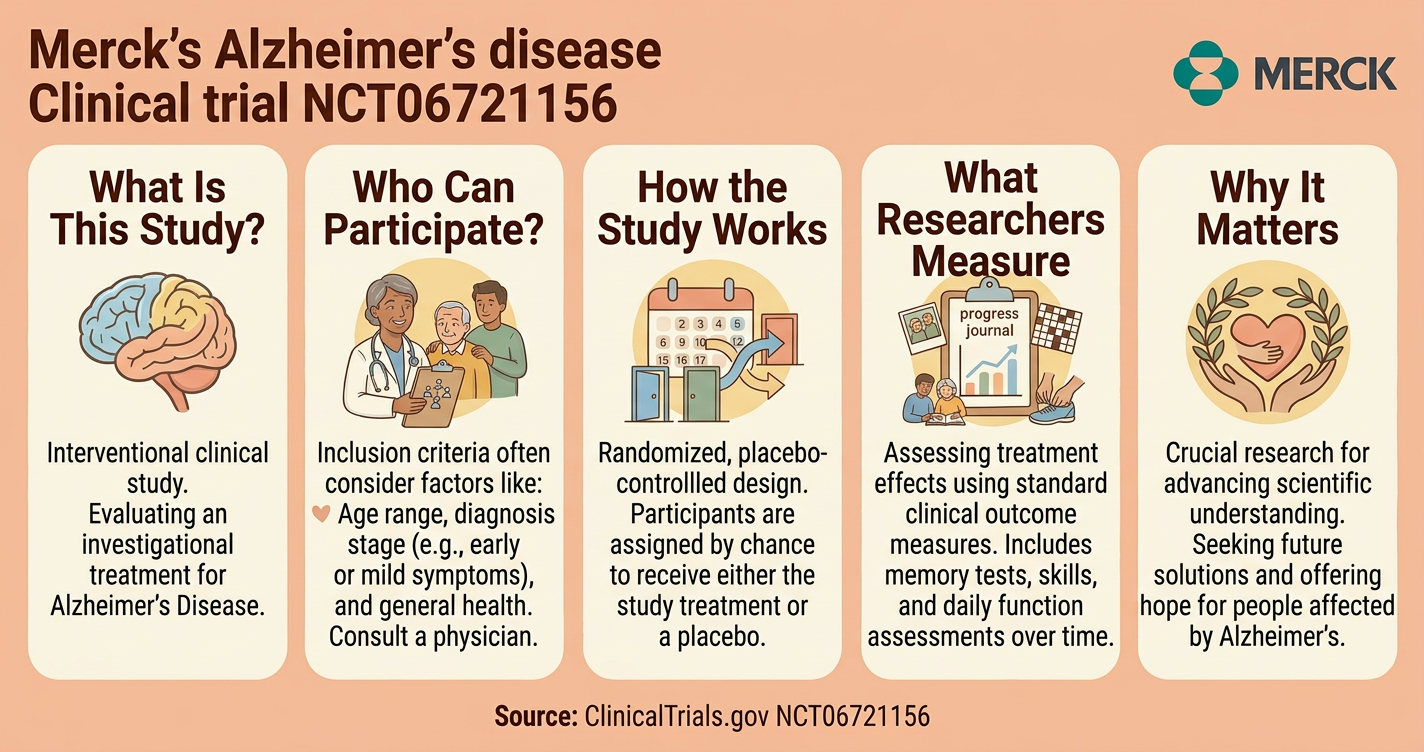
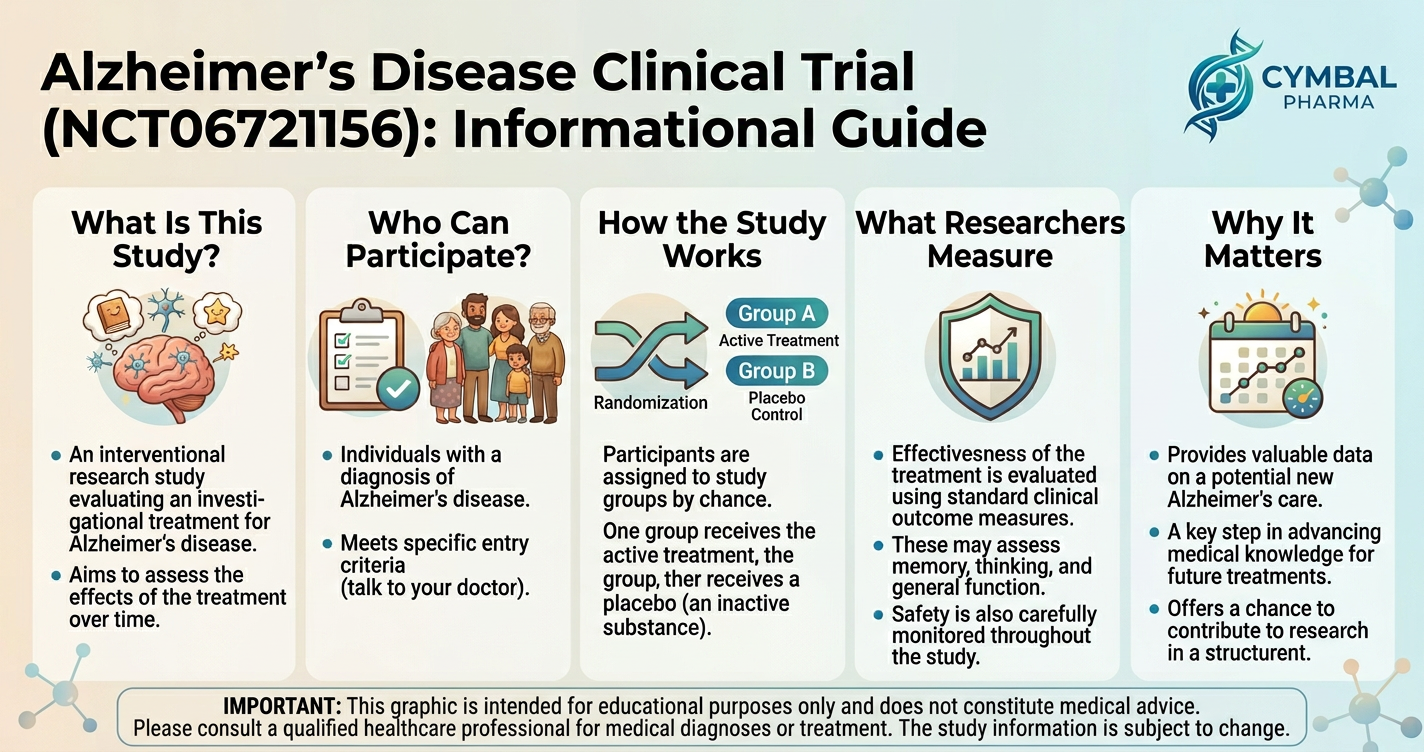
Removed Merck Branding from Labs

diff --git a/1-ice-breaker/image-ice-breaker.md b/1-ice-breaker/image-ice-breaker.md
@@ -4,20 +4,20 @@
 10 minutes
 
 ## Overview
-In this lab, you will use Gemini's image generation model to create a warm, professional, branded social media image for a Merck campaign. This is a quick, fun introduction to Gemini's image generation capabilities and a great way to kick off the course.
+In this lab, you will use Gemini's image generation model to create a warm, professional, branded social media image for a Cymbal Pharma campaign. This is a quick, fun introduction to Gemini's image generation capabilities and a great way to kick off the course.
 
 ### You learn how to:
 - Construct a visual prompt to evoke emotion and convey a campaign message.
-- Upload an image file (Merck logo) as context for image generation.
+- Upload an image file (Cymbal Pharma logo) as context for image generation.
 - Generate a professional, brand-ready visual asset.
 
 ## Scenario
 
 <p align="left">
-  <img src="images/merck-logo.png" width="30%" alt="Merck Logo" />
+  <img src="images/cymbal-pharma-logo.png" width="30%" alt="Cymbal Pharma Logo" />
 </p>
 
-Merck's Corporate Communications and Marketing teams are launching a social media campaign around cognitive health and the importance of preserving memories—aligning with Merck's pipeline of treatments for Alzheimer's disease. The team wants a heartwarming, high-quality visual showing stable cognitive health across generations: a grandfather teaching his two young grandchildren how to play chess.
+Cymbal Pharma's Corporate Communications and Marketing teams are launching a social media campaign around cognitive health and the importance of preserving memories—aligning with Cymbal Pharma's pipeline of treatments for Alzheimer's disease. The team wants a heartwarming, high-quality visual showing stable cognitive health across generations: a grandfather teaching his two young grandchildren how to play chess.
 
 ## Lab Instructions
 
@@ -39,10 +39,10 @@ Merck's Corporate Communications and Marketing teams are launching a social medi
    Create a high-quality, professional photograph for a healthcare social media post. A grandfather teaching his two grandchildren how to play chess. 
    ```
 
-4. We want to add Merck's brand mark to the image. Copy the **Merck Logo** shown in the Scenario section above and paste it into your Gemini chat, and run the following follow-up prompt:
+4. We want to add Cymbal Pharma's brand mark to the image. Copy the **Cymbal Pharma Logo** shown in the Scenario section above and paste it into your Gemini chat, and run the following follow-up prompt:
 
    ```text
-   Adjust the image using the attached Merck logo. Place the Merck logo neatly and professionally as a small watermark in the bottom corner of the image.
+   Adjust the image using the attached Cymbal Pharma logo. Place the Cymbal Pharma logo neatly and professionally as a small watermark in the bottom corner of the image.
    ```
 
 5. Review the generated image. Notice how Gemini integrates the brand assets to create a ready-to-share social post.
@@ -58,7 +58,7 @@ Merck's Corporate Communications and Marketing teams are launching a social medi
 2. Experiment by adding additional details to the prompt. Where are they sitting, how old are they, what do they look like, how many grandchildren are there? For example: 
 
    ```text
-   Create a high quality, professional photograph for a healthcare social media post. A  gray-haired, African-American grandfather with a beard is teaching his two grandchildren (a boy and a girl between 7 and 9) how to play chess. They are on the front porch of an older southern-style house. It is a beautiful summer evening. Warm light and cozy. Add the Merck logo in the bottom-left corner.
+   Create a high quality, professional photograph for a healthcare social media post. A  gray-haired, African-American grandfather with a beard is teaching his two grandchildren (a boy and a girl between 7 and 9) how to play chess. They are on the front porch of an older southern-style house. It is a beautiful summer evening. Warm light and cozy. Add the Cymbal Pharma logo in the bottom-left corner.
    ```
 
    <p align="left">

diff --git a/4-getting-started-with-notebooklm/getting-started-with-notebooklm.md b/4-getting-started-with-notebooklm/getting-started-with-notebooklm.md
@@ -4,7 +4,7 @@
 20 minutes
 
 ## Overview
-In this lab, you will create a NotebookLM notebook for executive preparation using Merck's public web sources. You will add multiple sources, review the Notebook Guide, ask meeting-focused questions, and produce three deliverables: an executive summary, an audio overview, and a slide deck outline.
+In this lab, you will create a NotebookLM notebook for executive preparation using public web sources. You will add multiple sources, review the Notebook Guide, ask meeting-focused questions, and produce three deliverables: an executive summary, an audio overview, and a slide deck outline.
 
 ### You learn how to:
 - Create a new notebook in NotebookLM.
@@ -16,14 +16,14 @@ In this lab, you will create a NotebookLM notebook for executive preparation usi
 ## Scenario
 
 <p align="left">
-   <img src="images/merck-logo.png" width="25%" alt="Healthcare logo" />
+   <img src="images/cymbal-pharma-logo.png" width="25%" alt="Healthcare logo" />
 </p>
 
-You are a Merck executive preparing for a board and investor meeting. You have 10 minutes to brief leadership on the current state of the pipeline and related strategic context.
+You are a Cymbal Pharma executive preparing for a board and investor meeting. You have 10 minutes to brief leadership on the current state of the pipeline and related strategic context.
 
 You need a concise, source-backed summary covering pipeline highlights, clinical trial posture, partnering posture, and investor-facing context.
 
-In this lab, you will use NotebookLM to collect and synthesize these public Merck sources:
+In this lab, you will use NotebookLM to collect and synthesize these public sources:
 
 - https://www.merck.com/research/product-pipeline/
 - https://www.merck.com/research/business-development-and-licensing/
@@ -80,7 +80,7 @@ Once sources are added, NotebookLM automatically generates a **Notebook Guide** 
    </p>
 
 2. Read through the generated summary. NotebookLM should have identified:
-   - Current Merck pipeline themes
+   - Current pipeline themes
    - Clinical development and trial context
    - Business development/licensing themes
    - Investor-facing priorities
@@ -111,7 +111,7 @@ What are the most important current pipeline highlights I should present to the 
 3. Type the following in the chat and press ENTER:
 
 ```text
-Based on the sources, what competitor and market context should I include so investors understand where Merck is positioned?
+Based on the sources, what competitor and market context should I include so investors understand where our company is positioned?
 ```
 
 - Check that NotebookLM synthesizes across more than one source.
@@ -146,7 +146,7 @@ Keep it concise, clear, and citation-grounded.
 3. Prompt it with:
 
 ```text
-Create an executive audio briefing for Merck leadership. Focus on pipeline status, market context, and key risks. Keep the tone confident, balanced, and factual.
+Create an executive audio briefing for our leadership. Focus on pipeline status, market context, and key risks. Keep the tone confident, balanced, and factual.
 ```
 
    > [!NOTE]

diff --git a/2-create-an-infographic/create-an-infographic.md b/2-create-an-infographic/create-an-infographic.md
@@ -4,7 +4,7 @@
 20 minutes
 
 ## Overview
-In this lab, you will use Gemini Image Generation to create a healthcare infographic related to Merck's Alzheimer's clinical trial work. The focus is prompt engineering using a simple framework:
+In this lab, you will use Gemini Image Generation to create a healthcare infographic related to Cymbal Pharma's Alzheimer's clinical trial work. The focus is prompt engineering using a simple framework:
 
 - Persona
 - Task
@@ -20,7 +20,7 @@ You will create a baseline infographic prompt, then iterate with small targeted 
 
 ## Scenario
 
-Merck's Marketing and Communications team wants a visual social post that explains, at a high level, an Alzheimer's disease clinical trial in a format that is easy for a general audience to scan.
+Cymbal Pharma's Marketing and Communications team wants a visual social post that explains, at a high level, an Alzheimer's disease clinical trial in a format that is easy for a general audience to scan.
 
 Use this source for factual grounding:
 
@@ -36,10 +36,10 @@ Your goal is to generate a clean infographic concept that is informative, hopefu
 
 2. In the chat bar, select the **Tools** icon and choose **Create images**.
 
-3. Copy and paste the Merck logo into chat:
+3. Copy and paste the Cymbal Pharma logo into chat:
 
     <p align="left">
-       <img src="images/merck-logo.png" width="30%" alt="Merck Logo" />
+       <img src="images/cymbal-pharma-logo.png" width="30%" alt="Cymbal Pharma Logo" />
       <br>
     </p>
 
@@ -50,7 +50,7 @@ Your goal is to generate a clean infographic concept that is informative, hopefu
    You are a healthcare visual communications designer who creates clear, trustworthy infographics for non-technical audiences.
 
    Task:
-   Create a single-page infographic image for a social media post about Merck's Alzheimer's clinical trial (NCT06721156).
+   Create a single-page infographic image for a social media post about Cymbal Pharma's Alzheimer's clinical trial (NCT06721156).
 
    Context:
    Use only high-level facts from the trial page: this is an interventional Alzheimer's disease study, includes randomization and placebo control, and evaluates treatment effects over time using standard clinical outcome measures. Do not invent numerical results or claim efficacy. Keep the tone informative, hopeful, and responsible.
@@ -60,7 +60,7 @@ Your goal is to generate a clean infographic concept that is informative, hopefu
    - Visual style: modern, clean, medical-brand style using teal/blue accents and soft neutral backgrounds.
    - Include simple icons (brain, clipboard, calendar, shield, chart).
    - Add a short footer: "Source: ClinicalTrials.gov NCT06721156".
-   - Place the attached Merck logo in the top-right corner.
+   - Place the attached Cymbal Pharma logo in the top-right corner.
    - Keep on-image text concise and legible.
    - **IMPORTANT:** Check all spelling and ensure there are no mistakes.  
    ```

diff --git a/5-creating-simple-agents/creating-simple-agents.md b/5-creating-simple-agents/creating-simple-agents.md
@@ -13,10 +13,10 @@ In this lab, you will create two lightweight agents in Gemini Enterprise Agent D
 ## Scenario
 
 <p align="left">
-  <img src="images/merck-logo.png" width="25%" alt="Merck Logo" />
+  <img src="images/cymbal-pharma-logo.png" width="25%" alt="Cymbal Pharma Logo" />
 </p>
 
-Merck teams often need to quickly summarize trial updates for leadership. Raw notes and snippets are useful, but they are not briefing-ready.
+Cymbal Pharma teams often need to quickly summarize trial updates for leadership. Raw notes and snippets are useful, but they are not briefing-ready.
 
 In this lab, you will build one agent to create a standardized trial brief and a second agent system to route high-risk trial updates for escalation.
 
@@ -38,7 +38,7 @@ This agent turns raw clinical-trial text into a clean, repeatable summary.
 3. The **Agent Designer** page opens. In the chat box, paste the following prompt and click the **Submit** icon:
 
    ```text
-   Create an agent called "Clinical Trial Briefing Agent" for Merck.
+   Create an agent called "Clinical Trial Briefing Agent" for Cymbal Pharma.
 
    This agent summarizes raw clinical trial notes into a structured briefing.
 
@@ -68,7 +68,7 @@ This agent turns raw clinical-trial text into a clean, repeatable summary.
 5. Click **Preview** and test with this sample input:
 
    ```text
-   Trial update: MK-ALZ-204 is a Phase 2 randomized, placebo-controlled study in early Alzheimer's disease. Enrollment target is 420 participants across US and EU sites. Primary endpoint is change in CDR-SB at 18 months. Interim operations update indicates enrollment is slower than plan in EU sites. No new serious safety signal reported; common AEs include headache and infusion-related reactions. Database lock is currently projected for Q2 next year.
+   Trial update: CP-ALZ-204 is a Phase 2 randomized, placebo-controlled study in early Alzheimer's disease. Enrollment target is 420 participants across US and EU sites. Primary endpoint is change in CDR-SB at 18 months. Interim operations update indicates enrollment is slower than plan in EU sites. No new serious safety signal reported; common AEs include headache and infusion-related reactions. Database lock is currently projected for Q2 next year.
    ```
 
 6. Check that all fields are captured and missing fields are flagged.
@@ -92,5 +92,5 @@ This agent turns raw clinical-trial text into a clean, repeatable summary.
 ## Congratulations!
 
 In this lab, you have:
-- Created a clinical-trial summarization agent for Merck.
+- Created a clinical-trial summarization agent for Cymbal Pharma.
 - Refined output quality with clear instruction updates.

diff --git a/3-deep-research/deep-research.md b/3-deep-research/deep-research.md
@@ -4,7 +4,7 @@
 30 minutes
 
 ## Overview
-In this lab, you will use Gemini Enterprise Deep Research to analyze the current Alzheimer's drug market for a Merck strategy use case.
+In this lab, you will use Gemini Enterprise Deep Research to analyze the current Alzheimer's drug market for a Cymbal Pharma strategy use case.
 
 You will start broad, then narrow to competitor therapies, evidence strength, and market dynamics. Finally, you will turn the findings into a concise strategy brief.
 
@@ -16,10 +16,10 @@ You will start broad, then narrow to competitor therapies, evidence strength, an
 ## Scenario
 
 <p align="left">
-   <img src="images/merck-logo.png" width="25%" alt="Healthcare logo" />
+   <img src="images/cymbal-pharma-logo.png" width="25%" alt="Healthcare logo" />
 </p>
 
-Merck's Market Intelligence team needs a current view of the Alzheimer's treatment landscape. Leadership wants to understand the major approved and late-stage competitor therapies, where evidence is strongest, and where unmet need still exists.
+Cymbal Pharma's Market Intelligence team needs a current view of the Alzheimer's treatment landscape. Leadership wants to understand the major approved and late-stage competitor therapies, where evidence is strongest, and where unmet need still exists.
 
 Your job is to use Gemini Enterprise Deep Research to build a source-backed landscape review and convert it into a short strategic recommendation.
 
@@ -43,7 +43,7 @@ Begin broad so Deep Research can map the therapeutic and market landscape.
 3. Paste the following prompt:
 
 ```text
-You are supporting Merck's Market Intelligence team.
+You are supporting Cymbal Pharma's Market Intelligence team.
 
 Research the current global market for Alzheimer's disease drugs.
 
@@ -69,7 +69,7 @@ Now narrow the research to direct competitor comparison.
 1. Ask this follow-up prompt:
 
 ```text
-Now compare the leading Alzheimer's drug competitors relevant to Merck.
+Now compare the leading Alzheimer's drug competitors relevant to Cymbal Pharma.
 
 Build a comparison table with one row per therapy and these columns:
 - Drug name

diff --git a/README.md b/README.md
@@ -1,12 +1,12 @@
-# Merck GenAI Demos
+# Cymbal Pharma GenAI Demos
 
-Short, hands-on labs for using Google Gemini and NotebookLM in Merck-focused workflows.
+Short, hands-on labs for using Google Gemini and NotebookLM in Cymbal Pharma-focused workflows.
 
 | Lab | Description |
 |-----|-------------|
 | [Lab 1: Ice Breaker](1-ice-breaker/image-ice-breaker.md) | Generate a branded social image with Gemini Image Generation. |
 | [Lab 2: Create an Infographic](2-create-an-infographic/create-an-infographic.md) | Practice prompt engineering (Persona, Task, Context, Formatting) for a healthcare infographic. |
 | [Lab 3: Deep Research](3-deep-research/deep-research.md) | Research the Alzheimer's drug landscape and competitors using Gemini Deep Research. |
-| [Lab 4: NotebookLM](4-getting-started-with-notebooklm/getting-started-with-notebooklm.md) | Build a board/investor briefing from Merck web sources in NotebookLM. |
+| [Lab 4: NotebookLM](4-getting-started-with-notebooklm/getting-started-with-notebooklm.md) | Build a board/investor briefing from Cymbal Pharma web sources in NotebookLM. |
 | [Lab 5: Creating Simple Agents](5-creating-simple-agents/creating-simple-agents.md) | Build lightweight agents to summarize trial updates and escalate risk signals. |
 
